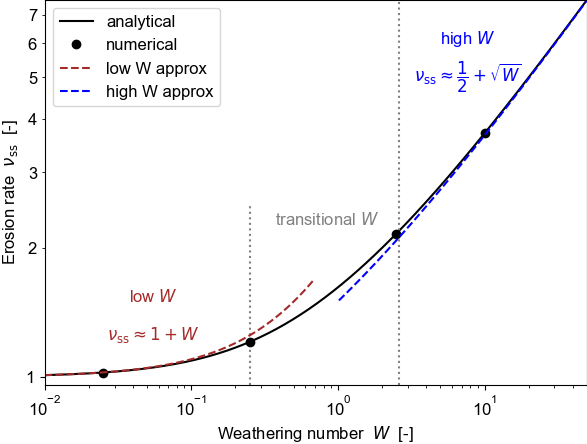
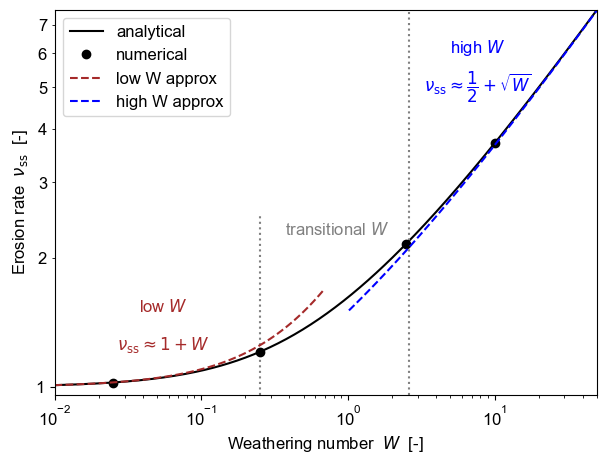
Fix graph (again)

diff --git a/src/wmbe/save.py b/src/wmbe/save.py
@@ -69,8 +69,11 @@ def export_plot(fig_name,fig,results_dir, file_type='pdf'):
     """
     fig_name += '.'+file_type.lower()
     try:
-        fig.savefig(os.path.join(results_dir,fig_name),
-                   bbox_inches = 'tight', pad_inches = 0)
+        fig.savefig(
+            os.path.join(results_dir,fig_name),
+            bbox_inches = "tight", 
+            # pad_inches = 0,
+        )
         print('Exported "'+fig_name+'"')
     except OSError:  
         print('Failed to export figure "'+fig_name+'"')